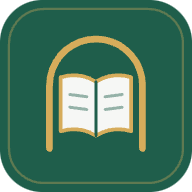
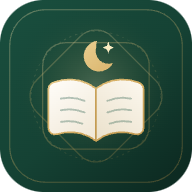
refactor: rename application to "وِرْد مُدَّكِر"
Update branding throughout the application, including titles, notification strings, and backup filenames. Added a centralized AppLogo component for consistent branding.

diff --git a/src/components/AppLogo.tsx b/src/components/AppLogo.tsx
@@ -1,0 +1,96 @@
+interface AppLogoProps {
+  className?: string;
+  /** 'badge' uses theme accent + warm gold inside a soft container; 'mono' inherits currentColor */
+  variant?: 'badge' | 'mono';
+}
+
+/**
+ * Refined brand emblem for وِرْد مُدَّكِر:
+ * a soft scalloped octagonal halo cradling flowing Mushaf leaves
+ * crowned by a slender crescent and four-point star.
+ */
+export function AppLogo({ className = 'h-6 w-6', variant = 'mono' }: AppLogoProps) {
+  const isBadge = variant === 'badge';
+
+  return (
+    <svg
+      viewBox="0 0 64 64"
+      fill="none"
+      xmlns="http://www.w3.org/2000/svg"
+      aria-hidden="true"
+      data-testid="app-logo-svg"
+      className={className}
+    >
+      {/* Soft inner luminous halo */}
+      <circle
+        cx="32"
+        cy="32"
+        r="25"
+        fill="currentColor"
+        fillOpacity={isBadge ? 0.08 : 0.06}
+      />
+
+      {/* Delicate scalloped Rub el Hizb double curve */}
+      <rect
+        x="14"
+        y="14"
+        width="36"
+        height="36"
+        rx="8"
+        stroke="currentColor"
+        strokeOpacity="0.34"
+        strokeWidth="1.5"
+      />
+      <rect
+        x="14"
+        y="14"
+        width="36"
+        height="36"
+        rx="8"
+        transform="rotate(45 32 32)"
+        stroke="currentColor"
+        strokeOpacity="0.28"
+        strokeWidth="1.4"
+      />
+
+      {/* Slender crescent + star centered above the Mushaf */}
+      <path
+        d="M32.4 13.6a5.4 5.4 0 1 0 5.5 7.7 4.45 4.45 0 0 1-5.8-5.7 4.5 4.5 0 0 1 .3-2Z"
+        fill={isBadge ? 'var(--gold)' : 'currentColor'}
+        fillOpacity={isBadge ? 0.95 : 0.9}
+      />
+      <path
+        d="M36.3 13.9l.6 1.35 1.35.6-1.35.6-.6 1.35-.6-1.35-1.35-.6 1.35-.6.6-1.35Z"
+        fill={isBadge ? 'var(--gold)' : 'currentColor'}
+      />
+
+      {/* Flowing open Mushaf leaves */}
+      <path
+        d="M32 29.6c-4.2-3.3-9.8-4.1-15-2.2-.9.32-1.5 1.15-1.5 2.08v13.1c0 1.38 1.38 2.36 2.72 1.94 4.86-1.5 9.8-.82 13.78 2.18 3.98-3 8.92-3.68 13.78-2.18 1.34.42 2.72-.56 2.72-1.94V29.48c0-.93-.6-1.76-1.5-2.08-5.2-1.9-10.8-1.1-15 2.2Z"
+        fill="currentColor"
+        fillOpacity="0.14"
+        stroke="currentColor"
+        strokeWidth="2.05"
+        strokeLinecap="round"
+        strokeLinejoin="round"
+      />
+
+      {/* Center binding spine */}
+      <path
+        d="M32 29.9v16.5"
+        stroke="currentColor"
+        strokeWidth="1.85"
+        strokeLinecap="round"
+      />
+
+      {/* Soft calligraphy-inspired reading lines */}
+      <path
+        d="M20.5 32.8c2.7-.55 5.45-.25 7.9.72M20.5 37.6c2.7-.55 5.45-.25 7.9.72M43.5 32.8c-2.7-.55-5.45-.25-7.9.72M43.5 37.6c-2.7-.55-5.45-.25-7.9.72"
+        stroke="currentColor"
+        strokeOpacity="0.62"
+        strokeWidth="1.45"
+        strokeLinecap="round"
+      />
+    </svg>
+  );
+}

diff --git a/src/App.tsx b/src/App.tsx
@@ -1,7 +1,6 @@
 import { useEffect, useMemo, useRef, useState } from 'react';
 import {
   BarChart3,
-  BookOpen,
   BookOpenCheck,
   CalendarDays,
   Grid3X3,
@@ -15,6 +14,7 @@ import {
   X,
 } from 'lucide-react';
 import { AnimatePresence, MotionConfig, motion } from 'motion/react';
+import { AppLogo } from './components/AppLogo';
 import { CelebrationModal } from './components/CelebrationModal';
 import { DuasScreen } from './components/DuasScreen';
 import { ThemePaletteProvider } from './components/IslamicOrnament';
@@ -491,12 +491,12 @@ export default function App() {
           {/* Desktop Right RTL Sidebar */}
           <aside className="card-elevated relative z-10 hidden w-64 shrink-0 border-l border-[var(--border-hairline)] bg-[linear-gradient(180deg,var(--bg-sidebar)_0%,color-mix(in_srgb,var(--accent-soft)_42%,var(--bg-sidebar))_100%)] lg:flex lg:flex-col lg:justify-between">
             <div className="p-5">
-              <div className="flex items-center gap-2.5 border-b border-[var(--border-hairline)] pb-4">
-                <div className="flex h-9 w-9 items-center justify-center rounded-xl border border-[var(--accent)]/25 bg-[var(--accent)] text-[var(--accent-ink)] shadow-xs">
-                  <BookOpen className="h-5 w-5" />
+              <div className="flex items-center gap-3 border-b border-[var(--border-hairline)] pb-4">
+                <div className="flex h-10 w-10 shrink-0 items-center justify-center rounded-2xl border border-[var(--accent)]/25 bg-[linear-gradient(145deg,var(--accent-soft)_0%,var(--bg-surface)_100%)] text-[var(--accent)] shadow-xs">
+                  <AppLogo variant="badge" className="h-7 w-7" />
                 </div>
                 <span className="font-display text-xl font-bold whitespace-nowrap text-[var(--text-primary)]">
-                  مِحراب الحفظ
+                  وِرْد مُدَّكِر
                 </span>
               </div>
 
@@ -616,8 +616,8 @@ export default function App() {
           {/* Compact Top Header (<= 56px on mobile) */}
           <header className="card-elevated sticky top-0 z-30 flex h-14 items-center justify-between gap-3 border-t-2 border-t-[var(--accent)] border-b border-b-[var(--border-hairline)] bg-[var(--bg-header)] px-4 backdrop-blur-md lg:h-16 lg:px-8">
             <div className="flex items-center gap-2 lg:hidden">
-              <BookOpen className="h-5 w-5 text-[var(--accent)]" />
-              <span className="font-display text-lg font-bold whitespace-nowrap">مِحراب الحفظ</span>
+              <AppLogo variant="badge" className="h-7 w-7 shrink-0 text-[var(--accent)]" />
+              <span className="font-display text-lg font-bold whitespace-nowrap">وِرْد مُدَّكِر</span>
               {todayFocus.primaryPage !== null && (
                 <button
                   type="button"

diff --git a/index.html b/index.html
@@ -3,23 +3,23 @@
   <head>
     <meta charset="UTF-8" />
     <meta name="viewport" content="width=device-width, initial-scale=1.0" />
-    <title>مِحراب الحفظ — مخطط حفظ القرآن في ٣ سنوات</title>
+    <title>وِرْد مُدَّكِر — مخطط حفظ القرآن في ٣ سنوات</title>
     <meta
       name="description"
       content="مخطط عملي هادئ لحفظ القرآن الكريم في ثلاث سنوات بنظام السبق والسبقي والمنزل، يعمل محلياً بالكامل."
     />
-    <meta property="og:title" content="مِحراب الحفظ — مخطط حفظ القرآن في ٣ سنوات" />
+    <meta property="og:title" content="وِرْد مُدَّكِر — مخطط حفظ القرآن في ٣ سنوات" />
     <meta
       property="og:description"
       content="مخطط عملي هادئ لحفظ القرآن الكريم في ثلاث سنوات بنظام السبق والسبقي والمنزل، يعمل محلياً بالكامل."
     />
     <meta property="og:type" content="website" />
     <meta name="twitter:card" content="summary_large_image" />
-    <meta name="theme-color" content="#1f5e4b" />
+    <meta name="theme-color" content="#154234" />
     <meta name="mobile-web-app-capable" content="yes" />
     <meta name="apple-mobile-web-app-capable" content="yes" />
     <meta name="apple-mobile-web-app-status-bar-style" content="default" />
-    <meta name="apple-mobile-web-app-title" content="مِحراب الحفظ" />
+    <meta name="apple-mobile-web-app-title" content="وِرْد مُدَّكِر" />
     <link rel="manifest" href="/manifest.webmanifest" />
     <link rel="apple-touch-icon" href="/apple-touch-icon.png" />
     <link rel="icon" type="image/svg+xml" href="/icon.svg" />

diff --git a/src/components/SetupScreen.tsx b/src/components/SetupScreen.tsx
@@ -1,7 +1,8 @@
 import { useState } from 'react';
-import { BookOpen, Lock, ShieldCheck } from 'lucide-react';
+import { Lock, ShieldCheck } from 'lucide-react';
 import { addMonths, formatShortArabicDate, getTodayLocalISO } from '../engine/planner';
 import type { MemorizationOrder } from '../types/plan';
+import { AppLogo } from './AppLogo';
 
 interface SetupScreenProps {
   onConfirmPlan: (startDate: string, order: MemorizationOrder) => void;
@@ -34,11 +35,11 @@ export function SetupScreen({ onConfirmPlan }: SetupScreenProps) {
     <div className="min-h-screen bg-[var(--bg-canvas)] px-4 py-8 md:py-14">
       <div className="mx-auto max-w-3xl">
         <div className="mb-8 text-center">
-          <div className="mx-auto mb-4 flex h-12 w-12 items-center justify-center rounded-xl bg-[var(--accent-soft)] text-[var(--accent)]">
-            <BookOpen className="h-6 w-6" />
+          <div className="mx-auto mb-5 flex h-16 w-16 items-center justify-center rounded-2xl border border-[var(--accent)]/25 bg-[linear-gradient(145deg,var(--accent-soft)_0%,var(--bg-surface)_100%)] text-[var(--accent)] shadow-sm">
+            <AppLogo variant="badge" className="h-11 w-11" />
           </div>
-          <h1 className="font-display text-3xl font-bold text-[var(--text-primary)] md:text-4xl">
-            مِحراب الحفظ
+          <h1 className="font-display text-3xl font-bold leading-relaxed text-[var(--text-primary)] md:text-4xl">
+            وِرْد مُدَّكِر
           </h1>
           <p className="mx-auto mt-2 max-w-xl text-sm text-[var(--text-secondary)] md:text-base">
             خطة هادئة ثابتة لحفظ القرآن الكريم كاملاً في ٣ سنوات وفق مصحف المدينة المنورة (٦٠٤ صفحات)

diff --git a/src/components/SettingsScreen.tsx b/src/components/SettingsScreen.tsx
@@ -96,7 +96,7 @@ export function SettingsScreen({
 
   const handleTestNotification = () => {
     if (notificationSupported && Notification.permission === 'granted') {
-      new Notification('مِحراب الحفظ', {
+      new Notification('وِرْد مُدَّكِر', {
         body: 'حان وقت وردك القرآني الهادئ — بارك الله في وقتك.',
       });
       setStatusMessage('تم إرسال إشعار تجريبي.');
@@ -107,7 +107,7 @@ export function SettingsScreen({
 
   const handleTestDailyReminder = () => {
     if (notificationSupported && Notification.permission === 'granted') {
-      new Notification('تذكيرك اليومي — مِحراب الحفظ', {
+      new Notification('تذكيرك اليومي — وِرْد مُدَّكِر', {
         body: 'لا تنسَ وردك القرآني اليوم، قليل دائم خير من كثير منقطع.',
       });
       setStatusMessage('تم إرسال إشعار التذكير اليومي التجريبي.');
@@ -121,7 +121,7 @@ export function SettingsScreen({
     const url = URL.createObjectURL(blob);
     const a = document.createElement('a');
     a.href = url;
-    a.download = `mihrab-quran-backup-${plan.startDate}.json`;
+    a.download = `wird-muddakkir-backup-${plan.startDate}.json`;
     a.click();
     URL.revokeObjectURL(url);
     setStatusMessage('تم تصدير نسخة احتياطية من بياناتك بصيغة JSON.');

diff --git a/src/engine/reminders.ts b/src/engine/reminders.ts
@@ -36,7 +36,7 @@ export function getDueReminders(
         due.push({
           fireKey,
           id,
-          title: 'مِحراب الحفظ',
+          title: 'وِرْد مُدَّكِر',
           body,
         });
       }
@@ -49,7 +49,7 @@ export function getDueReminders(
       due.push({
         fireKey,
         id: 'daily',
-        title: 'تذكيرك اليومي — مِحراب الحفظ',
+        title: 'تذكيرك اليومي — وِرْد مُدَّكِر',
         body: 'لا تنسَ وردك القرآني اليوم، قليل دائم خير من كثير منقطع.',
       });
     }

diff --git a/src/engine/reminders.test.ts b/src/engine/reminders.test.ts
@@ -50,6 +50,8 @@ test('Task reminders and daily reminder can both fire at the same time independe
     due.map((d) => d.id),
     ['sabaq', 'daily']
   );
+  assert.equal(due[0].title, 'وِرْد مُدَّكِر');
+  assert.equal(due[1].title, 'تذكيرك اليومي — وِرْد مُدَّكِر');
 });
 
 test('Changing daily reminder time allows firing at the newly customized time', () => {
